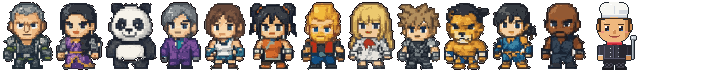
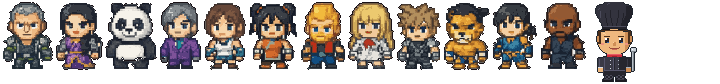
Adolfo con gorro de chef negro y alto (v1.9.3)
Claude-Session: https://claude.ai/code/session_012giJR8jrsmCsJ3cu1HsXxX

diff --git a/js/game.js b/js/game.js
@@ -1,7 +1,7 @@
 // =====================================================
 //  UTILIDADES
 // =====================================================
-const VERSION = '1.9.2'; // también en index.html (estilos y scripts)
+const VERSION = '1.9.3'; // también en index.html (estilos y scripts)
 const $ = id => document.getElementById(id);
 // ---------- todo el mundo en pixel art ----------
 // cada hoja del mundo tiene una versión en pixel art (img/px) con cada dibujo reducido al tamaño con que se ve en pantalla.
@@ -2541,7 +2541,7 @@ function pintarRetratoObjetivo(u){
   a.imageSmoothingEnabled = false;
   let img = null, sx, sy, w, h, cabeza = false;
   if (u.cam && CAM[u.cam]){ img = CAM_IMG; [sx, sy, w, h] = CAM[u.cam].ab[0]; cabeza = true; }
-  else if (u.spr && NPC_SPR[u.spr]){ img = NPC_IMG; [sx, sy, w, h] = NPC_SPR[u.spr]; cabeza = true; }
+  else if (u.spr && NPC_SPR[u.spr]){ img = NPC_IMG; [sx, sy, w, h] = NPC_SPR[u.spr]; const o = NPC_SPR[u.spr][4] || 0; sy += o; h -= o; cabeza = true; }
   else {
     const n = sprDe(u); if (!n || !MON.tipos[n]) return;
     const idx = (u.jefe && n === 'arana') ? MON.tipos.arana_jefe : (u.jefe && n === 'jabali') ? MON.tipos.jabali_jefe : MON.tipos[n].walk[0];
@@ -4620,7 +4620,7 @@ function dibujarTiendaInt(t){
 // =====================================================
 //  NPC CON MISIONES (estilo WoW: ! amarillo, ? gris o amarillo)
 // =====================================================
-const NPC_SPR = {"comandante": [2, 2, 51, 68], "sabia": [55, 2, 48, 68], "panda": [105, 2, 52, 68], "vance": [159, 2, 43, 68], "aiko": [204, 2, 42, 68], "tendera": [248, 2, 50, 68], "herrero": [300, 2, 46, 68], "clienta": [348, 2, 47, 68], "cliente": [397, 2, 44, 68], "leon": [443, 2, 47, 68], "kenji": [492, 2, 46, 68], "bruno": [540, 2, 46, 68], "adolfo": [590, 2, 48, 68]};
+const NPC_SPR = {"comandante": [2, 2, 51, 68], "sabia": [55, 2, 48, 68], "panda": [105, 2, 52, 68], "vance": [159, 2, 43, 68], "aiko": [204, 2, 42, 68], "tendera": [248, 2, 50, 68], "herrero": [300, 2, 46, 68], "clienta": [348, 2, 47, 68], "cliente": [397, 2, 44, 68], "leon": [443, 2, 47, 68], "kenji": [492, 2, 46, 68], "bruno": [540, 2, 46, 68], "adolfo": [590, 2, 48, 80, 12]};  // el 5.º valor: píxeles de gorro que el retrato se salta
 const NPC_IMG = new Image();
 let npcListo = false;
 NPC_IMG.onload = () => npcListo = true;
@@ -4814,7 +4814,7 @@ function dibujarNPCSprite(n, t){
   const pie = n.y + 12;
   ctx.fillStyle = 'rgba(0,0,0,.38)'; ctx.beginPath(); ctx.ellipse(n.x, pie, 17, 6, 0, 0, TAU); ctx.fill();
   if (P && n === P.amigo){ ctx.strokeStyle = 'rgba(125,255,168,.9)'; ctx.lineWidth = 2; ctx.setLineDash([6, 4]); ctx.lineDashOffset = -t / 50; ctx.beginPath(); ctx.ellipse(n.x, pie, 22, 8, 0, 0, TAU); ctx.stroke(); ctx.setLineDash([]); }
-  const alto = 66;
+  const alto = n.spr && NPC_SPR[n.spr] ? NPC_SPR[n.spr][3] - 2 : 66;
   if (n.cam){
     if (!camListo) return;
     // cada dirección usa sus propios cuadros, anclados al centro del cuerpo y a los pies

diff --git a/index.html b/index.html
@@ -14,7 +14,7 @@
 <title>Riftborn: El Ascenso del Eclipse</title>
 <link rel="preconnect" href="https://fonts.googleapis.com">
 <link href="https://fonts.googleapis.com/css2?family=Marcellus&family=Rajdhani:wght@500;600;700&display=swap" rel="stylesheet">
-<link rel="stylesheet" href="css/style.css?v=1.9.2">
+<link rel="stylesheet" href="css/style.css?v=1.9.3">
 </head>
 <body>
 <canvas id="c"></canvas>
@@ -87,7 +87,7 @@
   <div class="wl-izq">
     <button class="wbtn" id="tabReg" type="button">Crear cuenta</button>
     <button class="wbtn" id="tabEntrar" type="button">Ya tengo cuenta</button>
-    <small class="wl-version">Versión 1.9.2 (Eclipse)<br>Tu cuenta se guarda en este navegador</small>
+    <small class="wl-version">Versión 1.9.3 (Eclipse)<br>Tu cuenta se guarda en este navegador</small>
   </div>
   <div class="wl-der">
     <button class="wbtn" type="button" data-ir="pAyuda">Cómo jugar</button>
@@ -315,7 +315,7 @@
   <button class="btn principal" id="btnRevivir">Despertar en la posada</button>
 </div>
 
-<script src="auth/auth.js?v=1.9.2"></script>
-<script src="js/game.js?v=1.9.2"></script>
+<script src="auth/auth.js?v=1.9.3"></script>
+<script src="js/game.js?v=1.9.3"></script>
 </body>
 </html>
